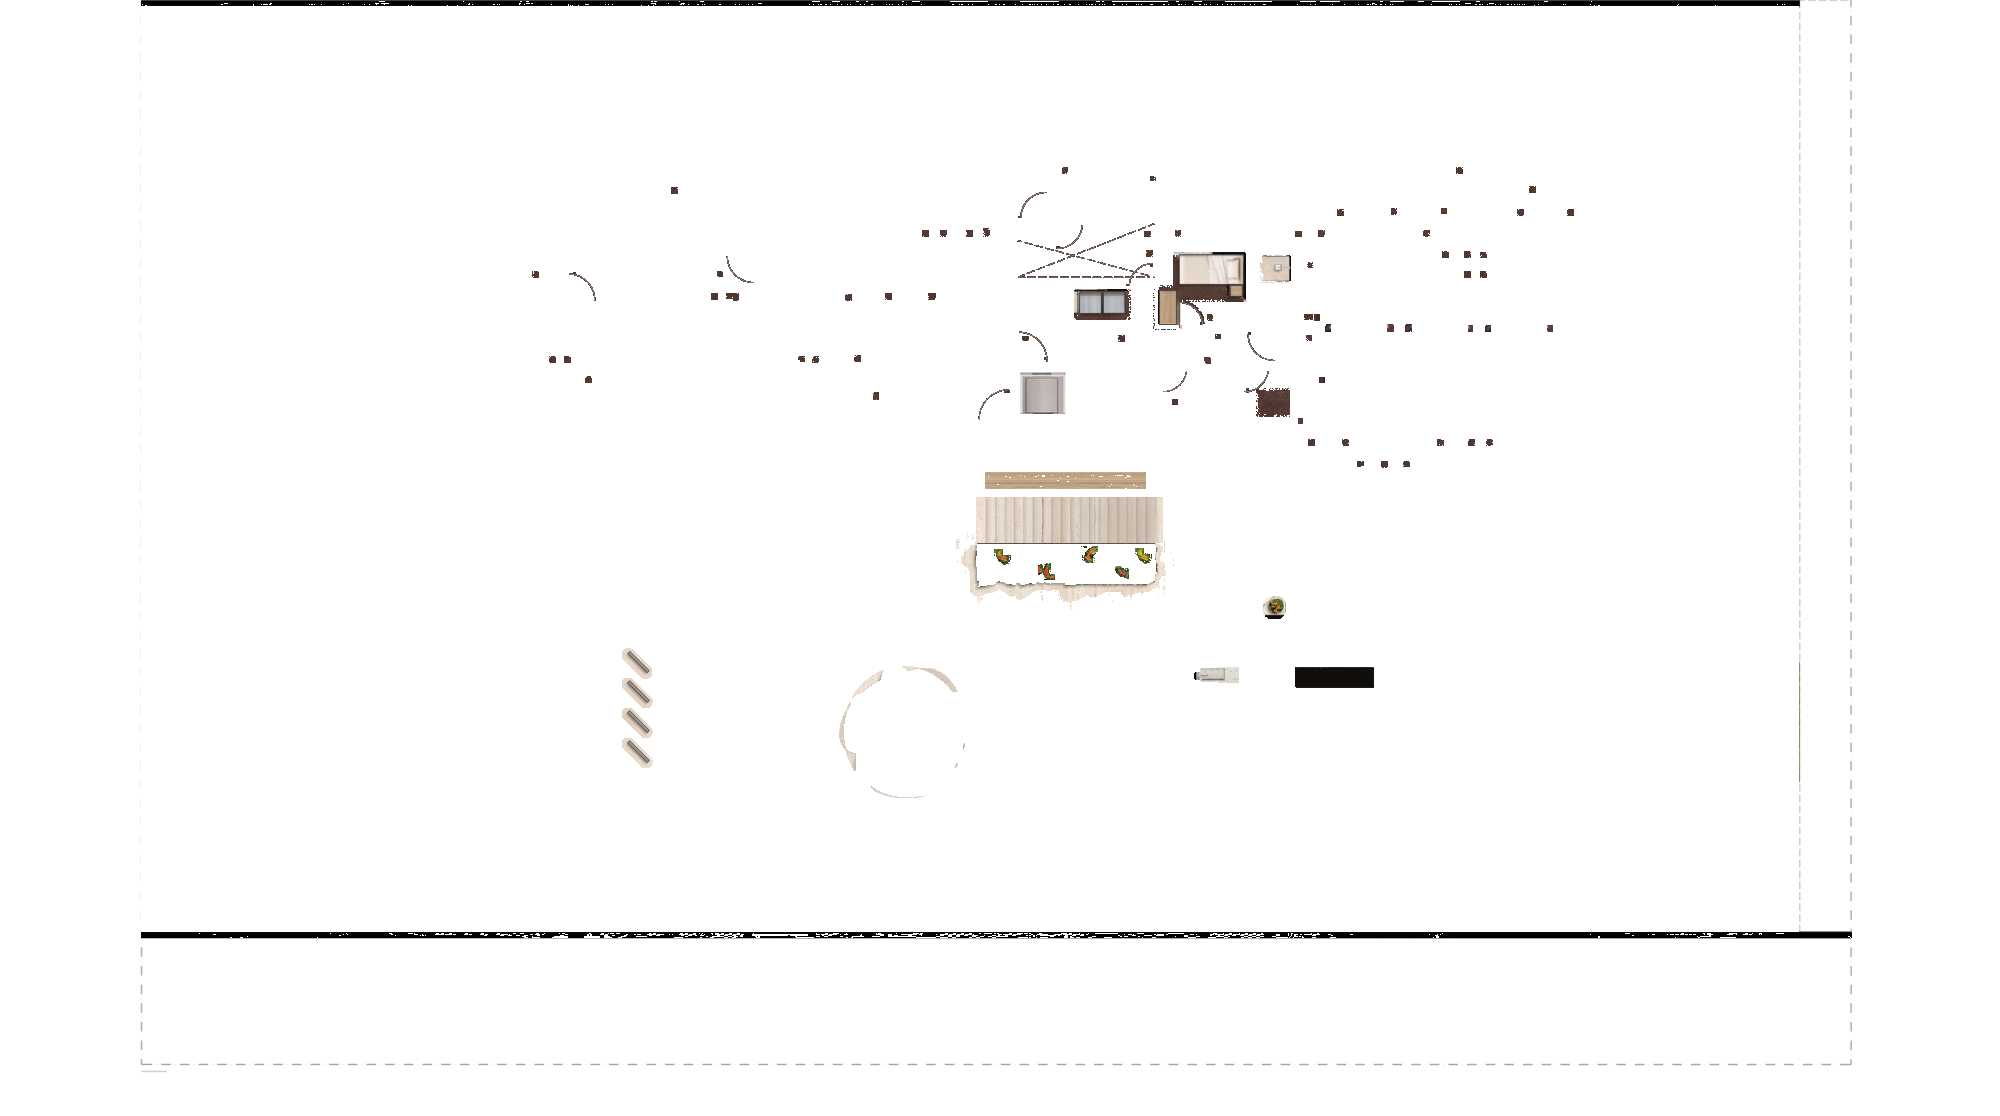
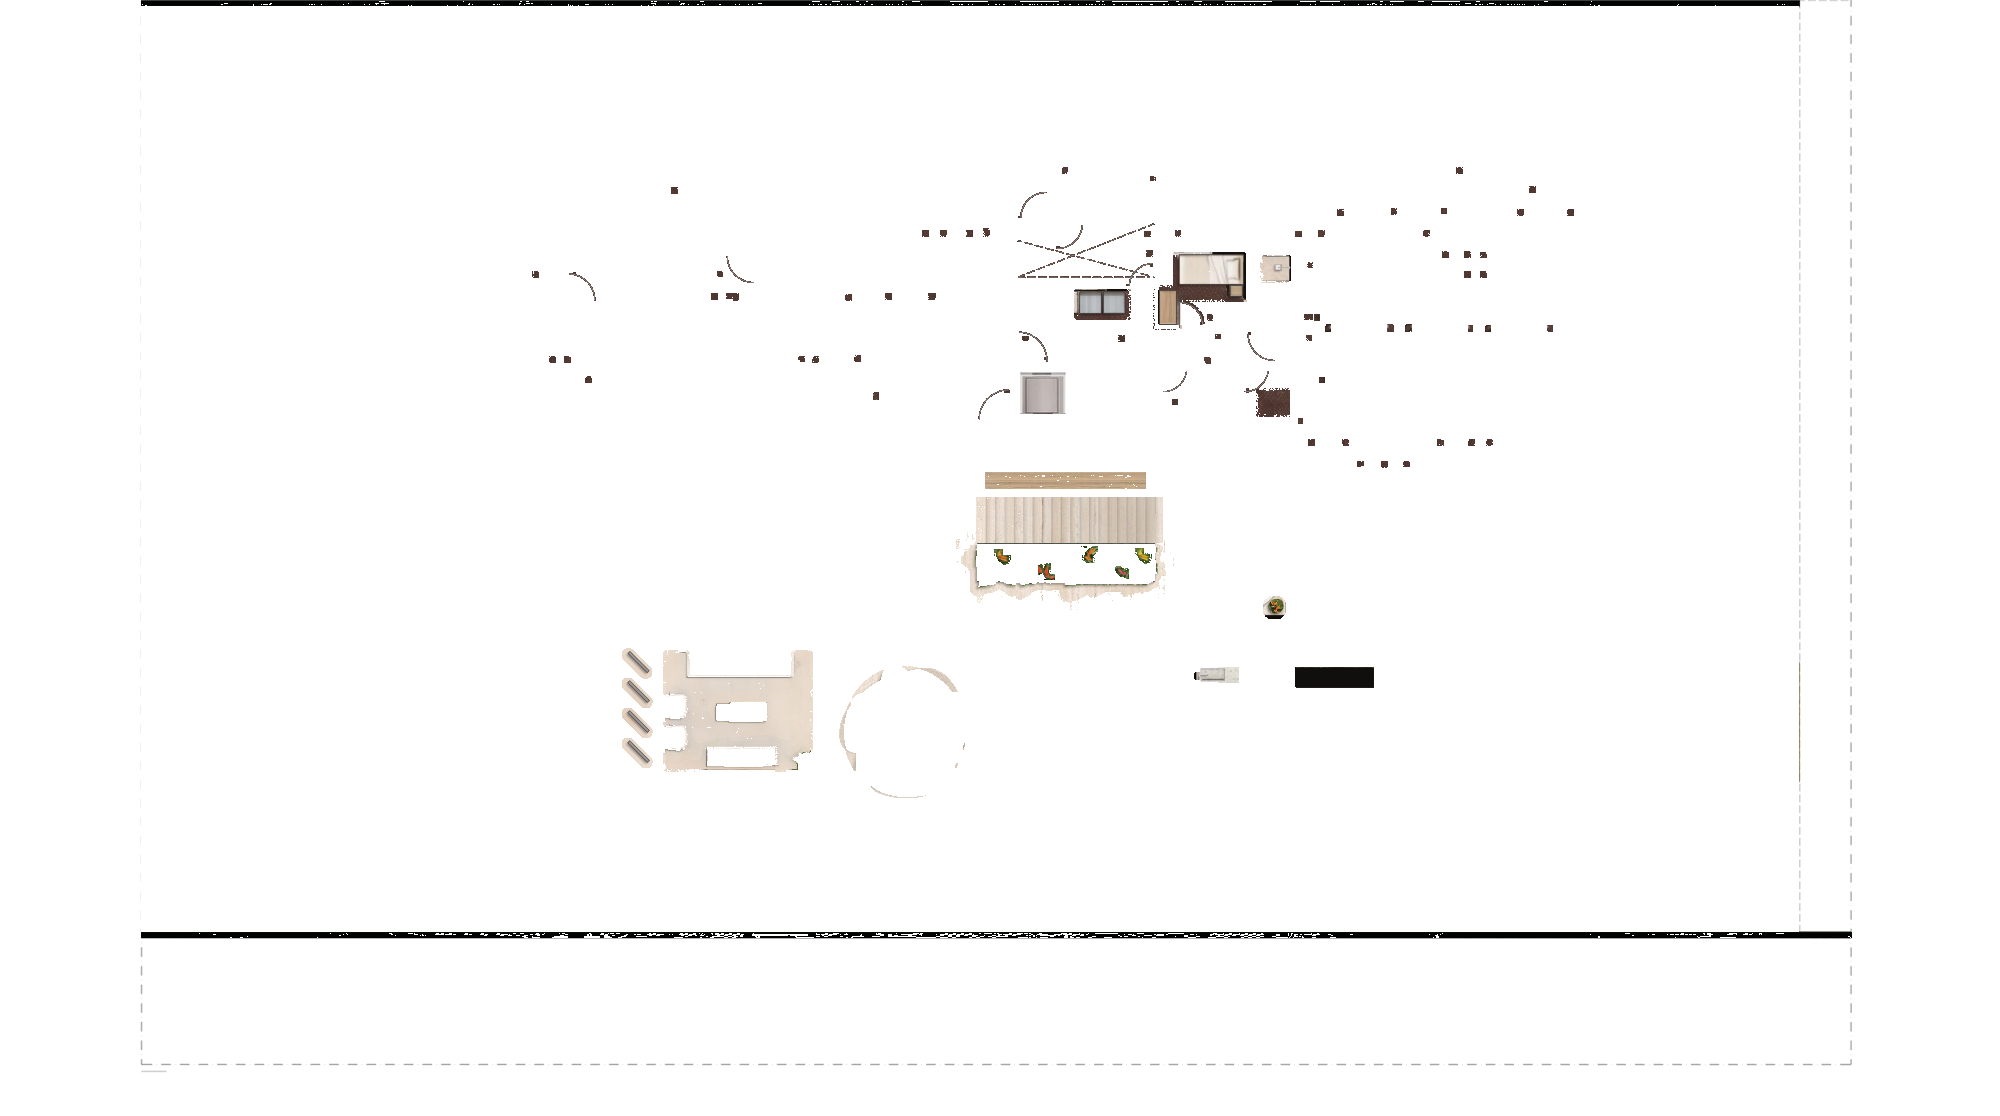
Casa E: sem tapete no estar da varanda
O tapete retangular que o motor inventou sai; volta o Bege Bahia, com os
móveis e a sombra curta deles (pedido do usuário).

Claude-Session: https://claude.ai/code/session_01Mm19WX3KoLN1nXMDF5Ay3F

Changed region(s): [[0.31, 0.5789, 0.434, 0.7007]]

diff --git a/projetos/POE642_CasaA/scripts/retoque_terreo_casae.py b/projetos/POE642_CasaA/scripts/retoque_terreo_casae.py
@@ -83,6 +83,10 @@ Itens (o mapa está em POE642_CasaE/renders/POE642_CasaE_PH_Terreo_v1_erros.jpg)
     baixo (até ~6 px), com a borda das folhas irregular; as folhas voltam do render original, por
     cima do traço da floreira, com uma sombra curta desenhada no travertino. Entram poucas flores tropicais coloridas (as estrelítzias
     do jardim do render, laranja, e as mesmas em vermelho, rosa e amarelo), espalhadas.
+20. Estar da varanda (pedido do usuário): ali não tem tapete. O tapete retangular que o motor pôs sob
+    o sofá, as poltronas, a mesa de centro e o banco sai: vira o Bege Bahia tecido da própria varanda,
+    na luz do piso em volta; os móveis (os polígonos brancos do PDF, com folga) ficam, e cada um ganha
+    de volta a sombra curta no piso.
 
 Uso (da pasta projetos/):
   python3 POE642_CasaA/scripts/retoque_terreo_casae.py POE642_CasaE/renders/POE642_CasaE_PH_Terreo_v1_render.webp \
@@ -1026,6 +1030,49 @@ def jardim_flores(out, orig):
     return out
 
 
+# sem tapete no estar da varanda (item 20): o retângulo do tapete do motor, a janela dos móveis em
+# volta e trechos limpos de Bege Bahia da varanda (acima do sofá e abaixo do banco)
+SEM_TAPETE = {
+    "tapete": (666, 653, 810, 769), "janela": (655, 630, 820, 790),
+    "fontes": [(700, 778, 786, 812), (530, 700, 600, 760)],
+    "camadas": ("ARQ_MOBILIÁRIO", "ARQ_LAYOUT HUMANIZAÇÃO"),
+    "sombra": {"desloc": (-1.5, 1.5), "sigma": 1.0, "forca": 0.3},
+}
+
+
+def sem_tapete(out, A):
+    q = SEM_TAPETE
+    wx0, wy0, wx1, wy1 = q["janela"]
+    pg, p2r, _ = pdf_cadeia(A, out.shape)
+
+    def movel(d):
+        c = caixa_render(d, p2r)
+        return (d.get("fill") == (1.0, 1.0, 1.0) and d.get("layer") in q["camadas"] and
+                c[2] > wx0 and c[0] < wx1 and c[3] > wy0 and c[1] < wy1 and (c[2] - c[0]) < 80)
+
+    moveis = mascara_pdf(q["janela"], A, out.shape, movel)
+    # os móveis do PDF com 1 px de folga, mais o contorno escuro do render até 2 px (o tapete, mais
+    # claro, não entra: senão ficava um halo dele em volta das peças)
+    mv = (moveis > 0.3).astype(np.uint8)
+    lum = out[wy0:wy1, wx0:wx1].astype(np.float32).mean(axis=2)
+    pecas = (cv2.dilate(mv, np.ones((3, 3), np.uint8)) > 0) | ((cv2.dilate(mv, np.ones((5, 5), np.uint8)) > 0) & (lum < 195))
+    tx0, ty0, tx1, ty1 = q["tapete"]
+    m = np.zeros(pecas.shape, bool)
+    m[ty0 - wy0:ty1 - wy0, tx0 - wx0:tx1 - wx0] = True
+    m &= ~pecas
+    out = apagar_largo(out, q["janela"], m, q["fontes"], sigma=6.0, borda=0.6, lum_min=185, lum_max=228, escuros=True)
+    # sombra curta dos móveis no piso refeito (só onde era tapete)
+    s = q["sombra"]
+    h, w = pecas.shape
+    M = np.float32([[1, 0, s["desloc"][0]], [0, 1, s["desloc"][1]]])
+    a = np.clip(moveis, 0, 1)
+    sb = cv2.GaussianBlur(cv2.warpAffine(a, M, (w, h)), (0, 0), s["sigma"]) * (1 - a) * m
+    reg = out[wy0:wy1, wx0:wx1].astype(np.float32)
+    out[wy0:wy1, wx0:wx1] = np.clip(reg * (1 - s["forca"] * sb)[..., None], 0, 255).astype(np.uint8)
+    print(f"    estar da varanda: tapete do motor fora ({int(m.sum())} px de Bege Bahia), sombra curta dos móveis")
+    return out
+
+
 def main():
     ap = argparse.ArgumentParser(description=__doc__, formatter_class=argparse.RawDescriptionHelpFormatter)
     ap.add_argument("render", type=Path)
@@ -1042,6 +1089,8 @@ def main():
     out = jardim_interno(out)
     print("[4] tapete do estar da varanda no contorno orgânico do PDF")
     out = tapete(out, A)
+    print("[20] estar da varanda: sem tapete")
+    out = sem_tapete(out, A)
     print("[5] varanda: as quatro barras a 45° do PDF")
     out = barras(out, A)
     print("[6] elevador: cabine ocupando a caixa")

diff --git a/projetos/POE642_HANDOFF_SESSAO_LOCAL.md b/projetos/POE642_HANDOFF_SESSAO_LOCAL.md
@@ -488,5 +488,6 @@ python texturizar_base.py Subsolo ../../POE642_CasaC/bases/POE642_CasaC_BASE_Sub
   17. louceiro (pedido do usuário): veios aparentes de marcenaria. O motor deixou a madeira lisa; o veio veio do tampo da mesa de jantar do próprio render (veio no comprido), girado para correr no comprimento do louceiro e realçado 2,2 ×, como no mobiliário do DCE da Casa D; o tom e as bordas ficaram.
   18. escada interna (pedido do usuário): só sombreamento de subida, da direita para a esquerda, sem linhas. O travertino da escada foi refeito sem os tracejados dos degraus, a linha de corte e a diagonal (as mesmas colunas do travertino limpo abaixo da floreira); os 19 pisos do PDF (9,38 px) clareiam para a esquerda (o de baixo, à direita, 10% mais escuro) e cada espelho joga uma sombra curta (18%, decaimento de 2 px) no piso de baixo, à direita dele, inclusive o primeiro, no piso da sala. A diagonal do item 3 saiu junto.
   19. jardim de inverno (pedido do usuário): as plantas saem levemente da floreira, sem exagero: nunca por cima da escada (a borda de cima fica), até ~3,5 px para os lados e até ~6,5 px para baixo, com o limite irregular e as pontas sumindo num degradê de 2 px; só os px de folha do render original voltam (sem o halo claro), por cima do traço da floreira, com sombra curta desenhada no travertino. Entraram 5 flores tropicais espalhadas: as estrelítzias do jardim do render (laranja) e as mesmas em vermelho, rosa e amarelo (matiz girado).
+  20. estar da varanda (pedido do usuário): ali não tem tapete. O tapete retangular que o motor pôs sob o sofá, as poltronas, a mesa de centro e o banco saiu (Bege Bahia tecido da própria varanda, na luz do piso em volta); os móveis (os polígonos brancos do PDF com 1 px de folga e o contorno escuro do render) ficaram, com a sombra curta deles no piso refeito.
 - **Próximo passo:** o usuário confere o retocado (`renders/POE642_CasaE_PH_Terreo_v1_retocado.png`); depois, a imagem final e a prancha/PDF de entrega da Casa E (falta a chave `entrega` na config: endereço, áreas etc.).
 

diff --git a/projetos/POE642_CasaA/scripts/README.md b/projetos/POE642_CasaA/scripts/README.md
@@ -318,6 +318,7 @@ O render do Térreo da Casa E manteve a escala da base (o afim do SIFT é quase 
 - **Louceiro (item 17):** `veio_louceiro`, o `veios_dce` da Casa D: o veio (luminância sobre ela desfocada) do tampo da mesa de jantar, girado, realçado e repetido em espelho, sobre o tom desfocado da peça.
 - **Escada (item 18):** `escada` refaz o travertino da escada (mesmas colunas, sem linhas) e aplica, com 8 amostras por px, o tom de cada piso do PDF (mais escuro embaixo) e a sombra curta de cada espelho no piso de baixo.
 - **Jardim de inverno (item 19):** `jardim_flores` devolve as folhas do render original numa faixa irregular fora da floreira (lados e baixo; nunca em cima), com degradê nas pontas e sombra curta, e cola as flores (recorte laranja das estrelítzias, com o matiz girado para outras cores).
+- **Sem tapete na varanda (item 20):** `sem_tapete` apaga o retângulo do tapete (`apagar_largo`, Bege Bahia) fora dos móveis do PDF e devolve a sombra curta deles.
 
 ```bash
 python retoque_terreo_casae.py ../../POE642_CasaE/renders/POE642_CasaE_PH_Terreo_v1_render.webp --saida ../../POE642_CasaE/renders --nome POE642_CasaE_PH_Terreo_v1_retocado
